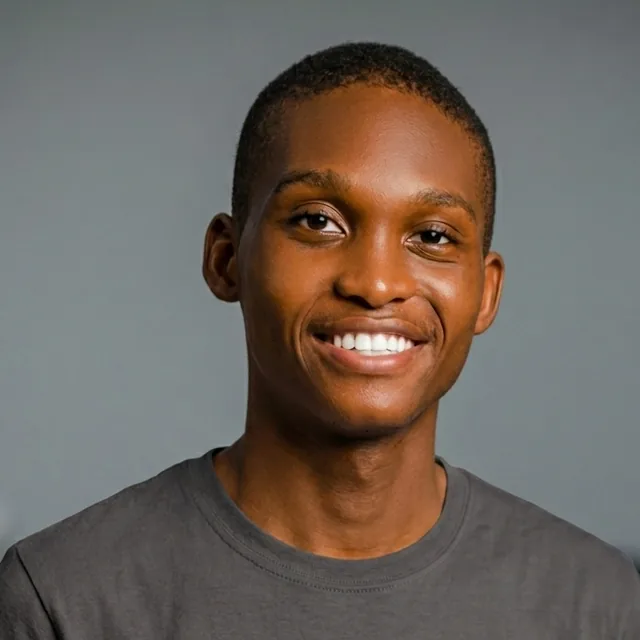
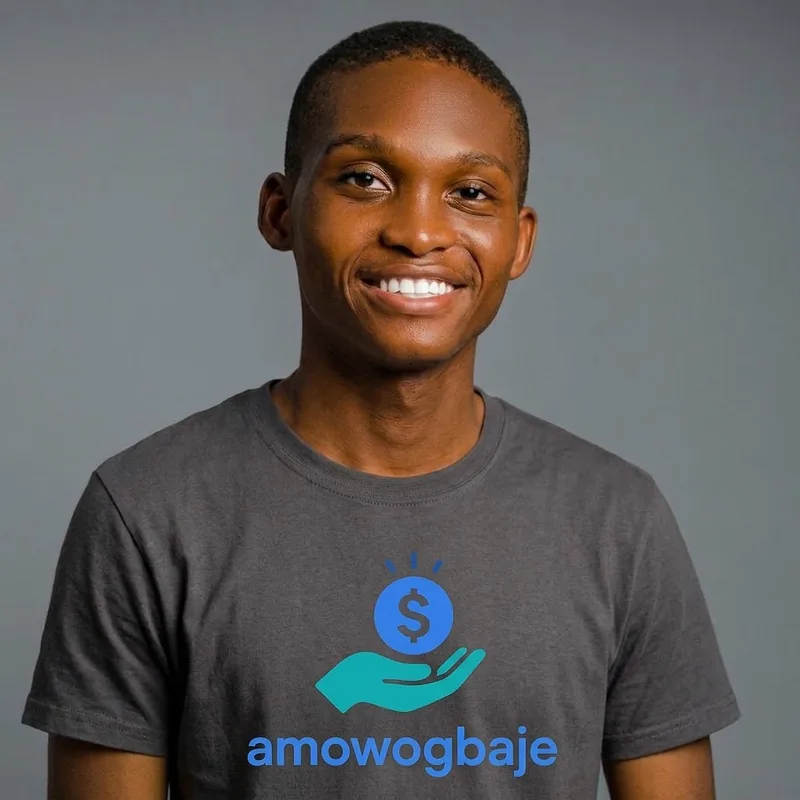
demos and branding

diff --git a/amowogbaje/src/components/Hero.jsx b/amowogbaje/src/components/Hero.jsx
@@ -93,13 +93,13 @@ export default function Hero() {
 
           <div className="relative aspect-square rounded-3xl overflow-hidden border border-paper/15 bg-inkdeep">
             <picture>
-              <source srcSet="/profile.webp" type="image/webp" />
+              <source srcSet="/profile.webp?v=2" type="image/webp" />
 
               <img
-                src="/profile-fallback.jpg"
+                src="/profile-fallback.jpg?v=2"
                 alt="Gideon Amowogbaje"
-                width="640"
-                height="640"
+                width="800"
+                height="800"
                 fetchpriority="high"
                 decoding="async"
                 className="w-full h-full object-cover"

diff --git a/amowogbaje/src/components/About.jsx b/amowogbaje/src/components/About.jsx
@@ -61,8 +61,8 @@ export default function About() {
           </div>
           <div className="aspect-square rounded-3xl overflow-hidden border border-paper/15 bg-inkdeep">
             <picture>
-              <source srcSet="/profile.webp" type="image/webp" />
-              <img src="/profile-fallback.jpg" alt="Gideon Amowogbaje" width="480" height="480" decoding="async" className="w-full h-full object-cover" />
+              <source srcSet="/profile.webp?v=2" type="image/webp" />
+              <img src="/profile-fallback.jpg?v=2" alt="Gideon Amowogbaje" width="480" height="480" decoding="async" className="w-full h-full object-cover" />
             </picture>
           </div>
         </section>

diff --git a/amowogbaje/public/brand-assets/favicon/README-head-snippet.html b/amowogbaje/public/brand-assets/favicon/README-head-snippet.html
@@ -1,0 +1,9 @@
+<!-- Put all files in /public (site root), then paste in <head> -->
+<link rel="icon" href="/favicon.ico" sizes="48x48">
+<link rel="icon" href="/favicon.svg" type="image/svg+xml">
+<link rel="icon" type="image/png" sizes="32x32" href="/favicon-32x32.png">
+<link rel="icon" type="image/png" sizes="16x16" href="/favicon-16x16.png">
+<link rel="apple-touch-icon" href="/apple-touch-icon.png">
+<link rel="manifest" href="/site.webmanifest">
+<meta name="theme-color" content="#10a34a">
+<meta property="og:image" content="https://amowogbaje.com/og-image.png">

diff --git a/amowogbaje/index.html b/amowogbaje/index.html
@@ -46,7 +46,7 @@
 
   <link rel="preconnect" href="https://fonts.googleapis.com">
   <link rel="preconnect" href="https://fonts.gstatic.com" crossorigin>
-  <link rel="preload" as="image" href="/profile.webp" fetchpriority="high" />
+  <link rel="preload" as="image" href="/profile.webp?v=2" fetchpriority="high" />
   <link
     href="https://fonts.googleapis.com/css2?family=Fraunces:ital,opsz,wght@0,9..144,300;0,9..144,500;0,9..144,600;0,9..144,700;1,9..144,500&family=Inter:wght@400;500;600&family=JetBrains+Mono:wght@400;500&display=swap"
     rel="stylesheet">
